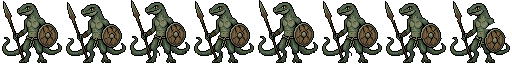
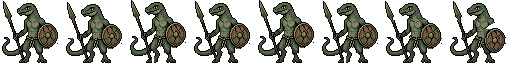
도마뱀 족장 새 그림: SpriteCook 4장 중 사용자가 2번을 고름 (124px → 키 80px, 96칸). 방패 도마뱀 원본의 앞 꼬리 지움 (꼬리가 몸 앞뒤로 두 개였음)
Claude-Session: https://claude.ai/code/session_01CrXT72CsQeDrvHanB1Pg9J

diff --git a/tools/import_pixellab_monster.py b/tools/import_pixellab_monster.py
@@ -11,6 +11,15 @@ import_ai_monster.py 는 큰 AI 그림을 줄여서 픽셀로 만든다. PixelLa
   python3 tools/import_pixellab_monster.py shield_07.png --out wild_shield_lizard --shield 47,35,12.4
   python3 tools/import_pixellab_monster.py shield_12.png --out wild_shield_lizard_b --shield 46,35,12.6
 그림 원본: /mnt/project-files/design/guiyeo-tall/pixellab/shield_*.png
+  (2026-10-05 원본은 꼬리가 몸 앞뒤로 두 개라서 앞 꼬리를 지운 shield_*_onetail.png 를 쓴다)
+  python3 tools/import_pixellab_monster.py shield_07_onetail.png --out wild_shield_lizard --shield 47,35,12.4
+  python3 tools/import_pixellab_monster.py shield_12_onetail.png --out wild_shield_lizard_b --shield 46,35,12.6
+
+도마뱀 족장 (2026-10-05, SpriteCook generate_game_art 124칸 4장 중 사용자가 2번 = chief_01 을 고름):
+  124px 그림을 키 80px 로 줄인다 (--height: BOX 로 줄이고 원본 색에 다시 맞춘다), 96칸 가운데 아래에 놓는다.
+  방패를 내리는 칸이 없으므로 7 은 숨 고름 (윗몸을 2px 눌러 앞으로 숙임).
+  python3 tools/import_pixellab_monster.py chief_01.png --out wild_lizard_chief --height 80 --cell 96
+  그림 원본: /mnt/project-files/design/guiyeo-tall/spritecook/chief_*.png
 """
 import argparse
 from pathlib import Path
@@ -106,6 +115,26 @@ def shield_down(img, cx, cy, r, dy=5, dx=-1):
     return body
 
 
+def shrink(img, height, colors=256):
+    """BOX 로 줄이고, 원본 색 몇 가지에 다시 맞춰 흐려진 색을 픽셀 색으로 돌린다."""
+    img = img.crop(img.getbbox())
+    w = round(img.width * height / img.height)
+    pal = img.convert("RGB").quantize(colors, method=Image.Quantize.MEDIANCUT)
+    small = img.resize((w, height), Image.BOX)
+    rgb = small.convert("RGB").quantize(palette=pal, dither=Image.Dither.NONE).convert("RGB")
+    out = Image.new("RGBA", small.size, (0, 0, 0, 0))
+    a = small.getchannel("A").point(lambda v: 255 if v > 110 else 0)
+    out.paste(rgb, (0, 0), a)
+    return out
+
+
+def place(img, cell):
+    """cell 칸 가운데 아래에 놓는다."""
+    out = Image.new("RGBA", (cell, cell), (0, 0, 0, 0))
+    out.alpha_composite(img, ((cell - img.width) // 2, cell - img.height))
+    return out
+
+
 def build(img, cx, cy, r):
     h = img.size[1]
     ys = [y for y in range(h) for x in range(img.size[0]) if img.getpixel((x, y))[3]]
@@ -122,7 +151,7 @@ def build(img, cx, cy, r):
         stride(vshift(img, foot, -1), foot, -1),
         stride(img, foot, 1),
         shear(img, lean_back),
-        shear(shield_down(img, cx, cy, r), lean_fwd),
+        shear(shield_down(img, cx, cy, r), lean_fwd) if r else shear(vshift(img, hip, 2), lean_fwd),
     ]
     return frames
 
@@ -131,14 +160,20 @@ def main():
     ap = argparse.ArgumentParser()
     ap.add_argument("src")
     ap.add_argument("--out", required=True)
-    ap.add_argument("--shield", required=True, help="방패 원: 가운데 x,y,반지름")
+    ap.add_argument("--shield", help="방패 원: 가운데 x,y,반지름 (없으면 7 칸은 숨 고름)")
+    ap.add_argument("--height", type=int, help="이 키로 줄인다 (큰 그림일 때)")
+    ap.add_argument("--cell", type=int, help="칸 크기 (없으면 그림 높이)")
     ap.add_argument("--flip", action="store_true")
     ap.add_argument("--preview")
     a = ap.parse_args()
     img = Image.open(a.src).convert("RGBA")
     if a.flip:
         img = img.transpose(Image.FLIP_LEFT_RIGHT)
-    cx, cy, r = (float(v) for v in a.shield.split(","))
+    if a.height:
+        img = shrink(img, a.height)
+    if a.cell:
+        img = place(img, a.cell)
+    cx, cy, r = (float(v) for v in a.shield.split(",")) if a.shield else (0, 0, 0)
     frames = build(img, int(cx), int(cy), r)
     c = img.size[1]
     sheet = Image.new("RGBA", (c * len(frames), c), (0, 0, 0, 0))

diff --git a/tools/make_act5_sheets.py b/tools/make_act5_sheets.py
@@ -537,7 +537,7 @@ out = {
     "baby_gold_dragon": sheet(frames10(lambda **k: baby_gold(**k)), 32),
 }
 # 2026-10-04: 사용자 AI 그림 (새 크기, tools/import_ai_monster.py 의 귀여리 줄) 으로 바뀐 시트는 --force 일 때만 덮어쓴다
-AI_DONE = {"wild_shield_lizard"}  # 2026-10-05 PixelLab 그림 (tools/import_pixellab_monster.py)
+AI_DONE = {"wild_shield_lizard", "wild_lizard_chief"}  # 2026-10-05 PixelLab 방패 도마뱀 · SpriteCook 족장 (tools/import_pixellab_monster.py)
 for k, img in out.items():
     if k in AI_DONE and "--force" not in sys.argv:
         print(k, "건너뜀 (AI 그림이 있음, 옛 코드 그림으로 덮으려면 --force)")
